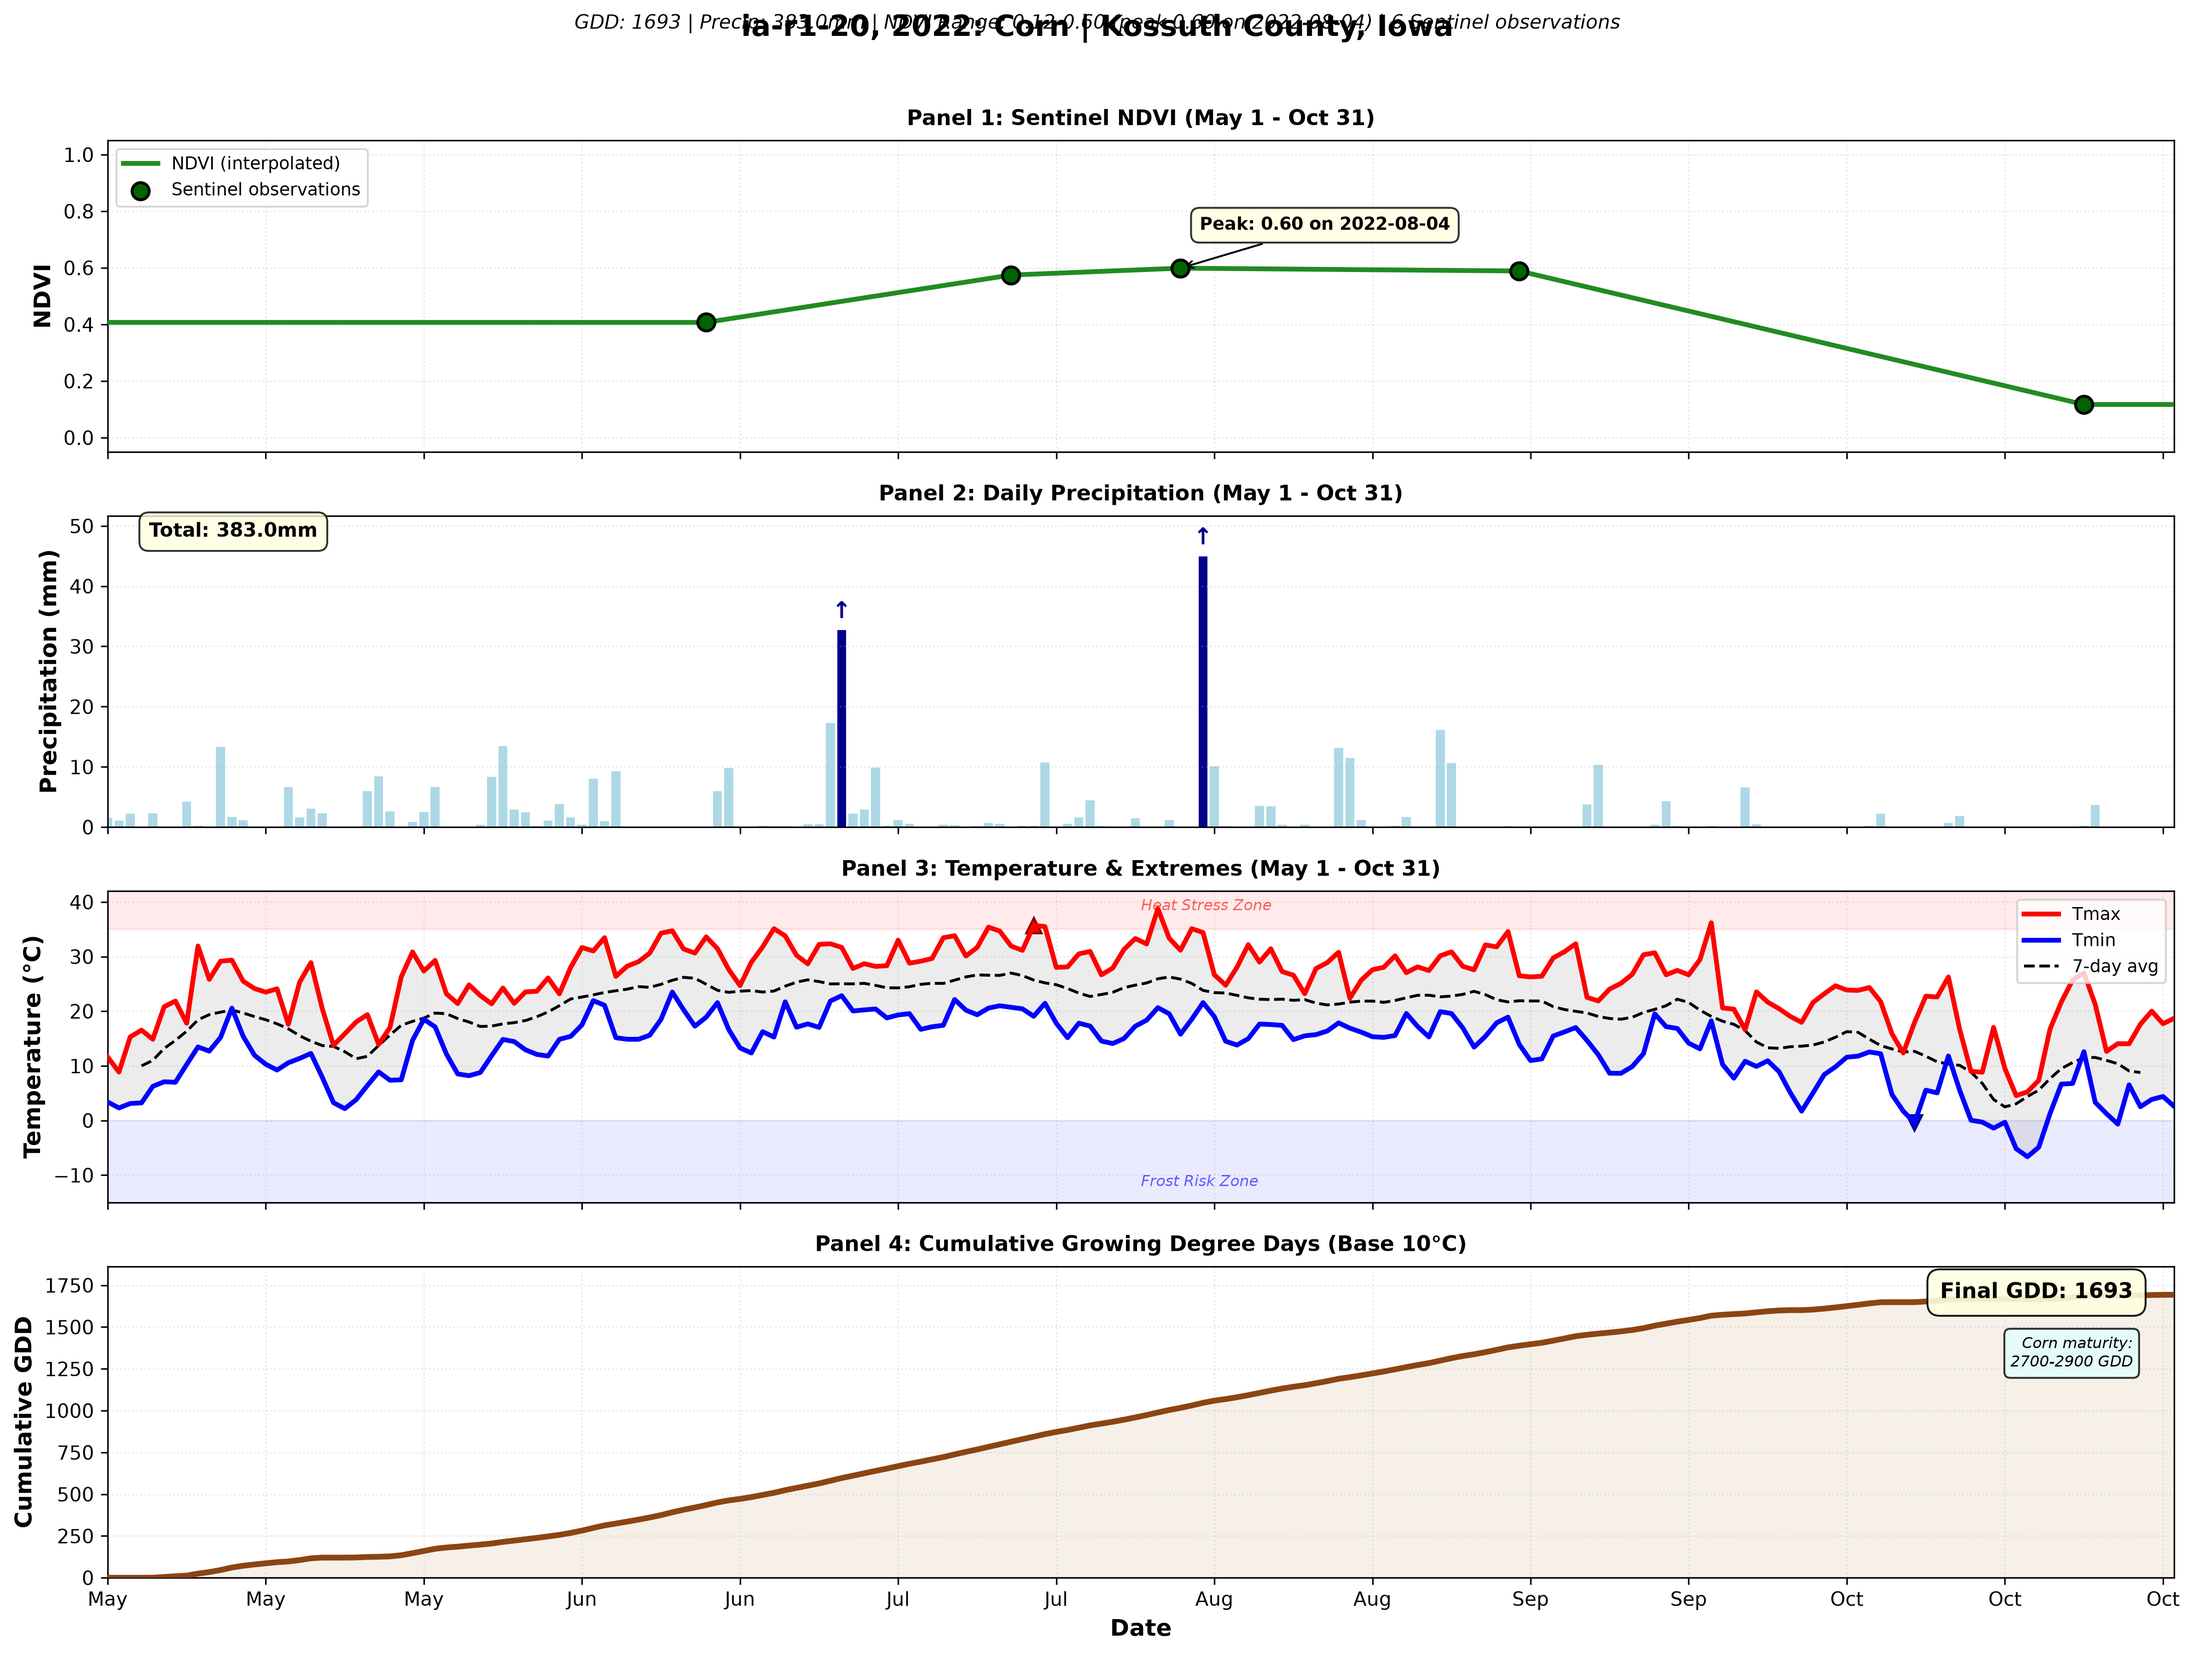
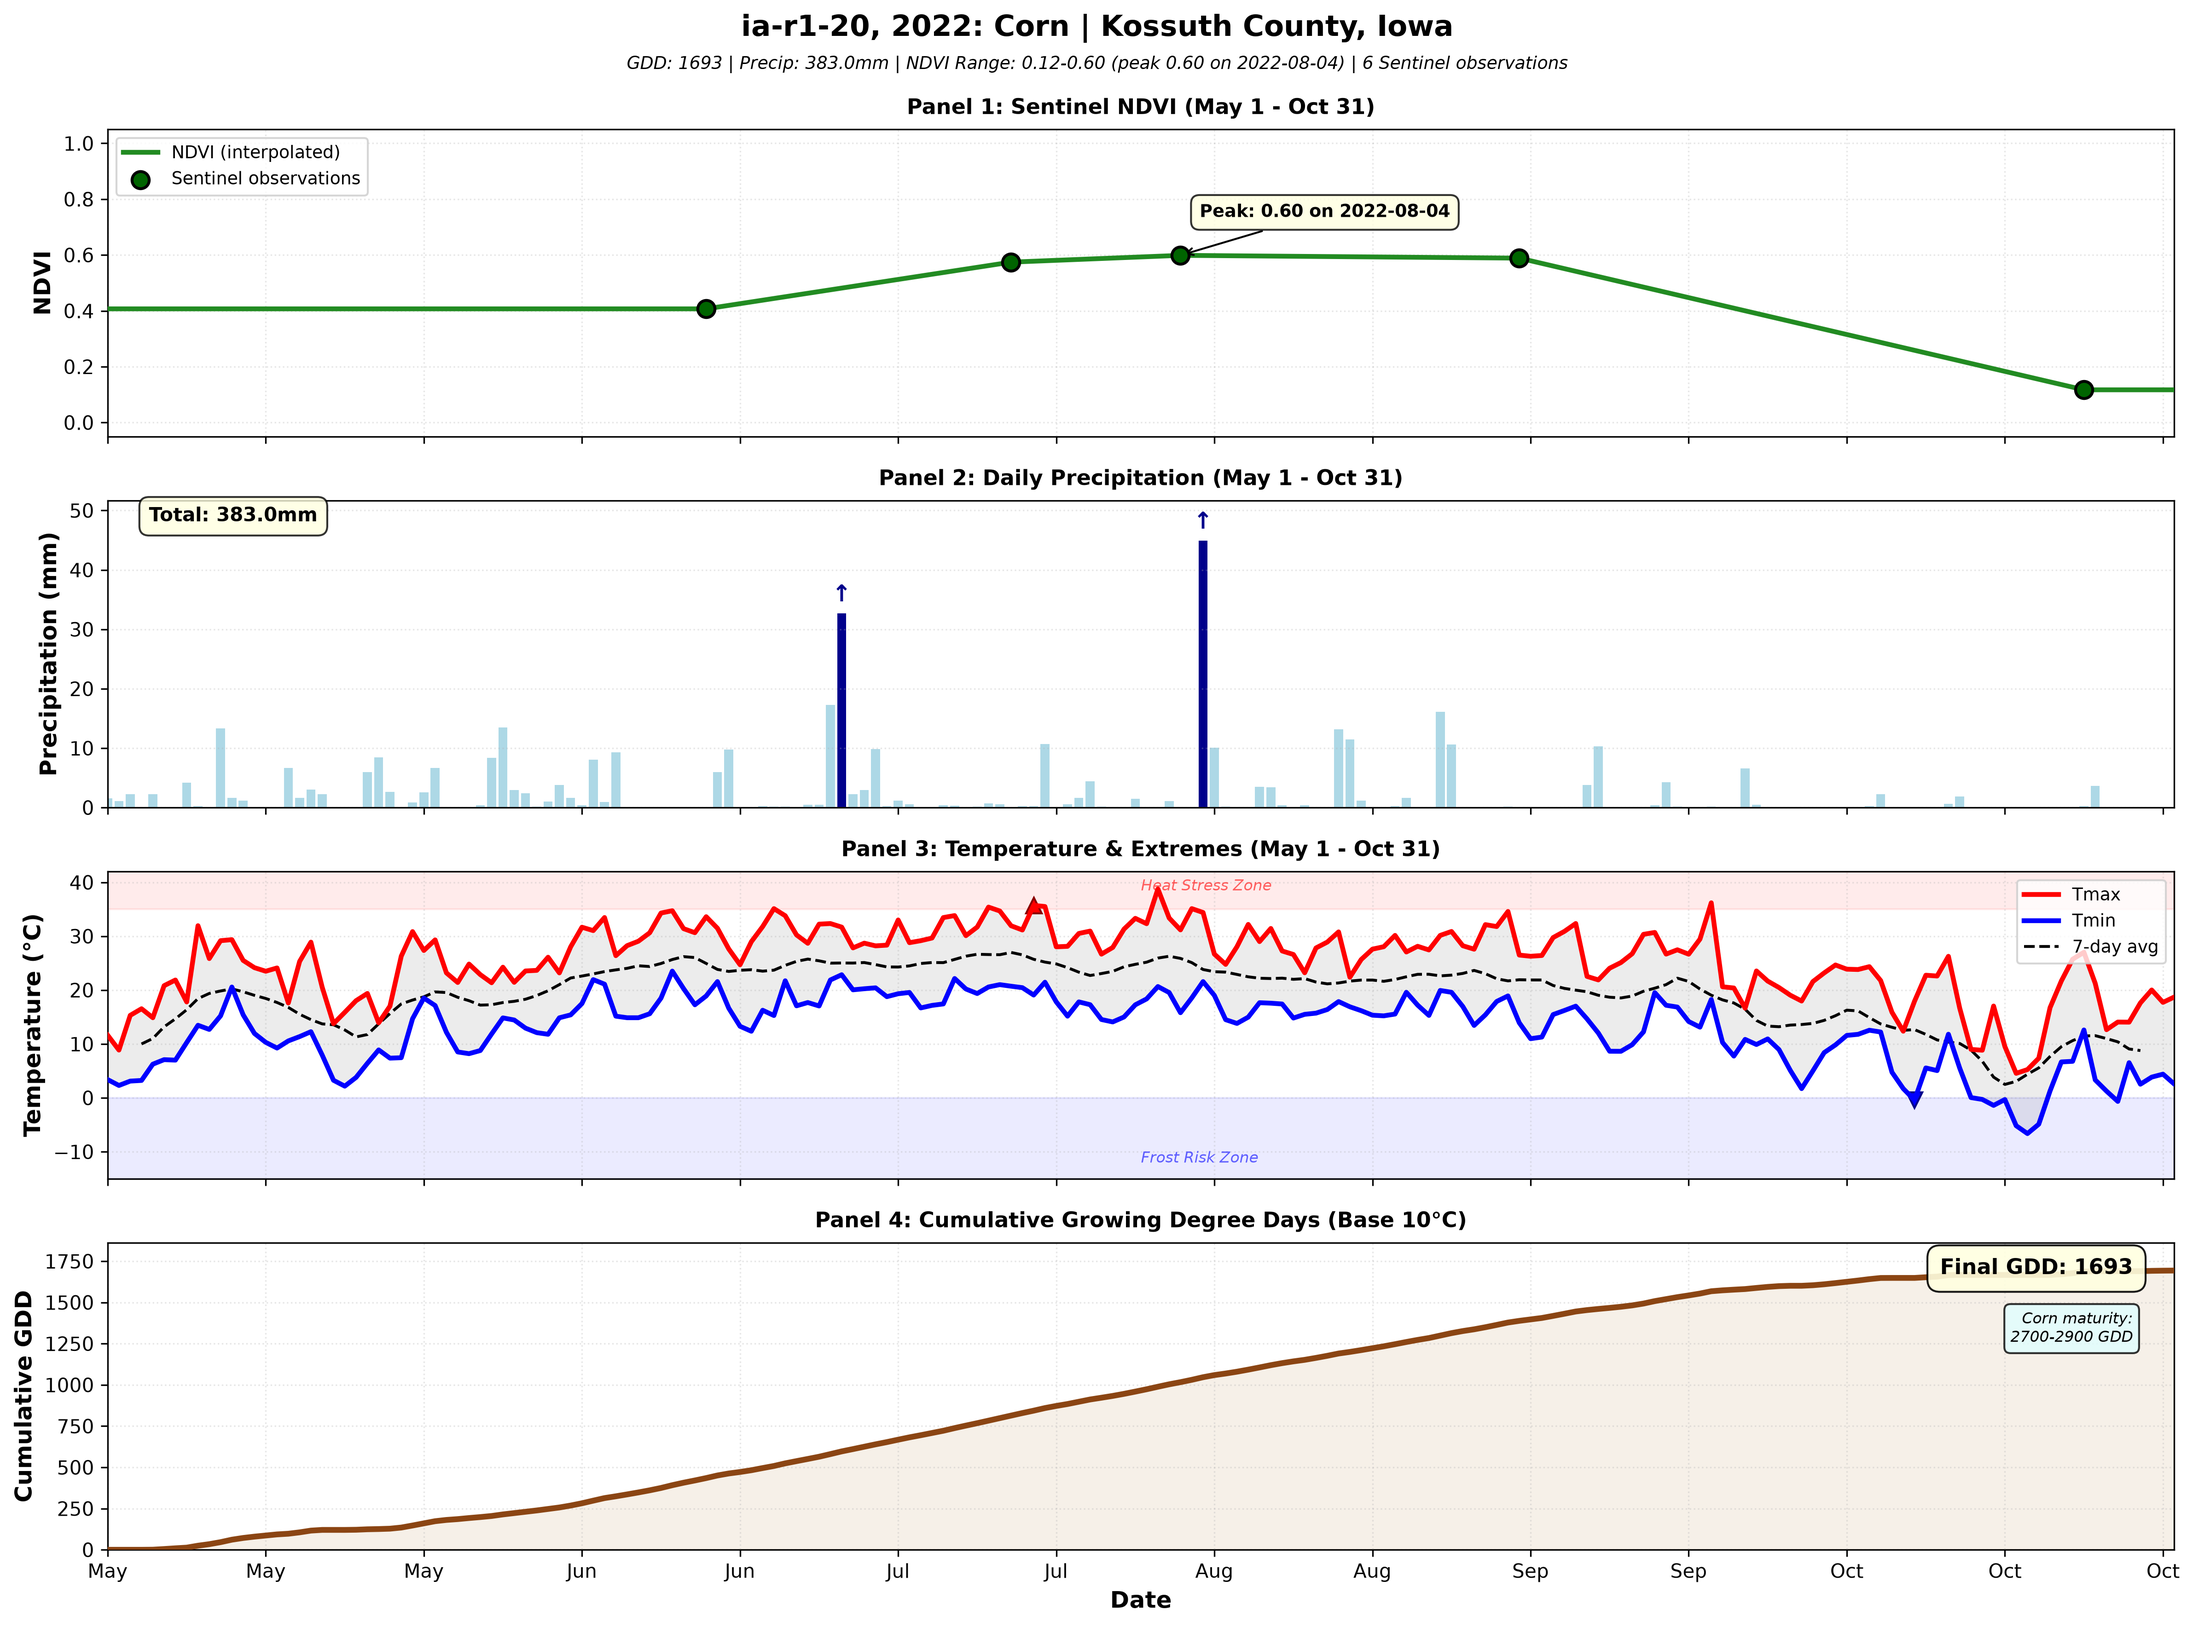
Fix dashboard header layout: properly space field name and metrics on separate lines

diff --git a/my-farm-advisor-skills/assignment_3_field_storylines/src/dashboard_renderer.py b/my-farm-advisor-skills/assignment_3_field_storylines/src/dashboard_renderer.py
@@ -224,21 +224,21 @@ def create_dashboard_figure(
     axes[-1].set_xticks(pd.date_range(start=dates[0], end=dates[-1], freq='2W'))
     
     # =========================================================================
-    # FIGURE HEADER (Two lines)
+    # FIGURE HEADER (Two lines with proper spacing)
     # =========================================================================
-    # Line 1: Field and year info
-    fig.text(0.5, 0.993, f'{field_id}, {year}: {crop_name} | {county} County, {state}',
+    # Adjust layout first to reserve space at top
+    plt.tight_layout(rect=[0, 0, 1, 0.94])
+    
+    # Line 1: Field and year info (higher position)
+    fig.text(0.5, 0.965, f'{field_id}, {year}: {crop_name} | {county} County, {state}',
             ha='center', fontsize=15, fontweight='bold')
     
-    # Line 2: Metrics
-    fig.text(0.5, 0.987, f'GDD: {final_gdd:.0f} | Precip: {total_precip:.1f}mm | '
+    # Line 2: Metrics (below field info)
+    fig.text(0.5, 0.945, f'GDD: {final_gdd:.0f} | Precip: {total_precip:.1f}mm | '
                          f'NDVI Range: {ndvi_stats["ndvi_min"]:.2f}-{ndvi_stats["ndvi_max"]:.2f} '
                          f'(peak {peak_ndvi:.2f} on {peak_ndvi_date}) | '
                          f'{len(ndvi_obs)} Sentinel observations',
             ha='center', fontsize=9, style='italic')
-    
-    # Adjust layout (leave more space at top for two-line header)
-    plt.tight_layout(rect=[0, 0, 1, 0.96])
     
     # Save figure
     if output_path is None:
